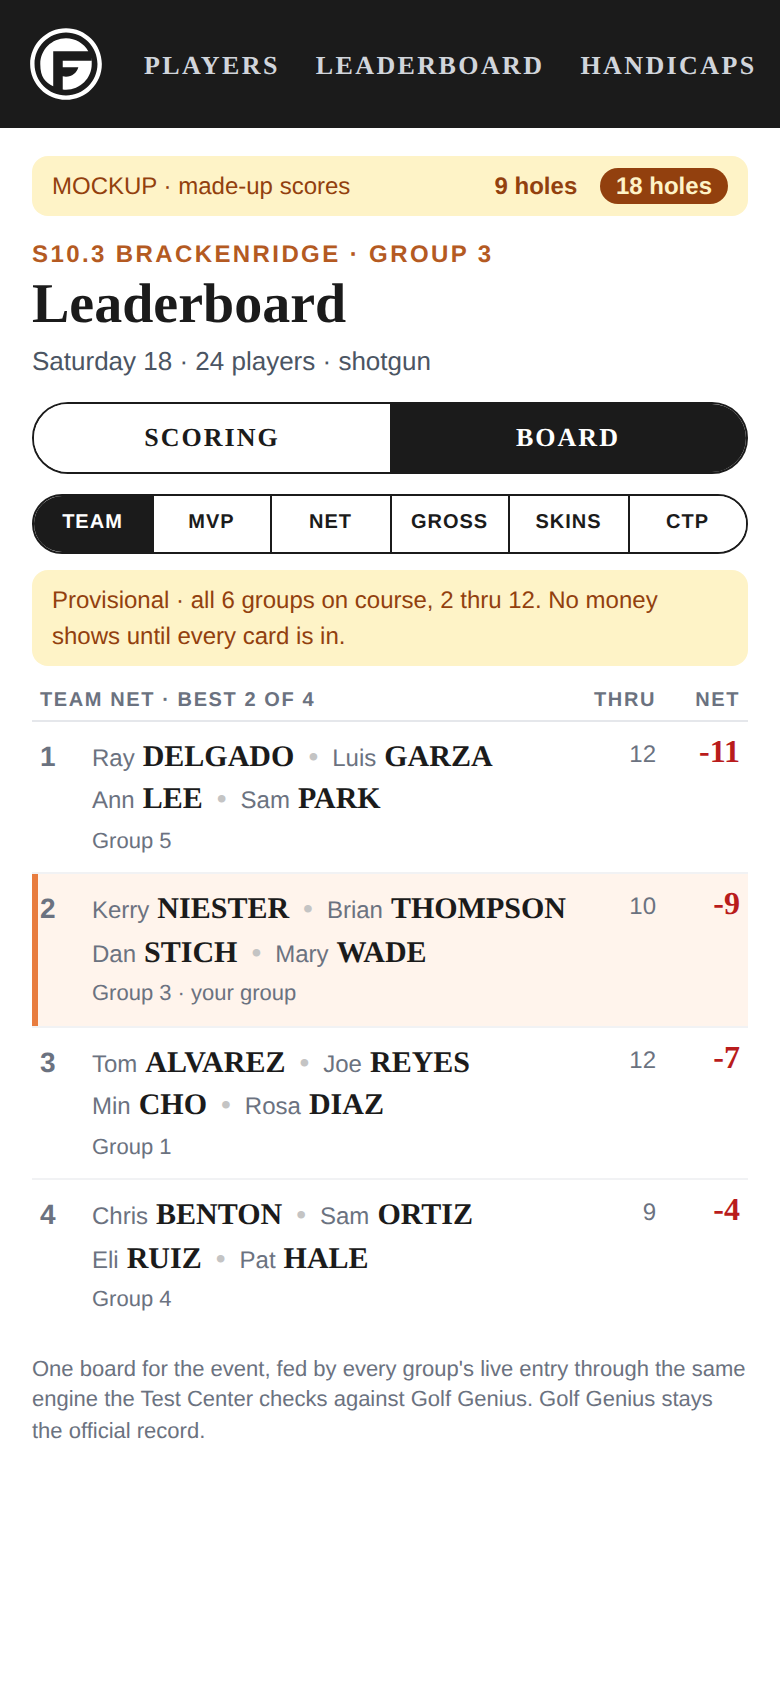
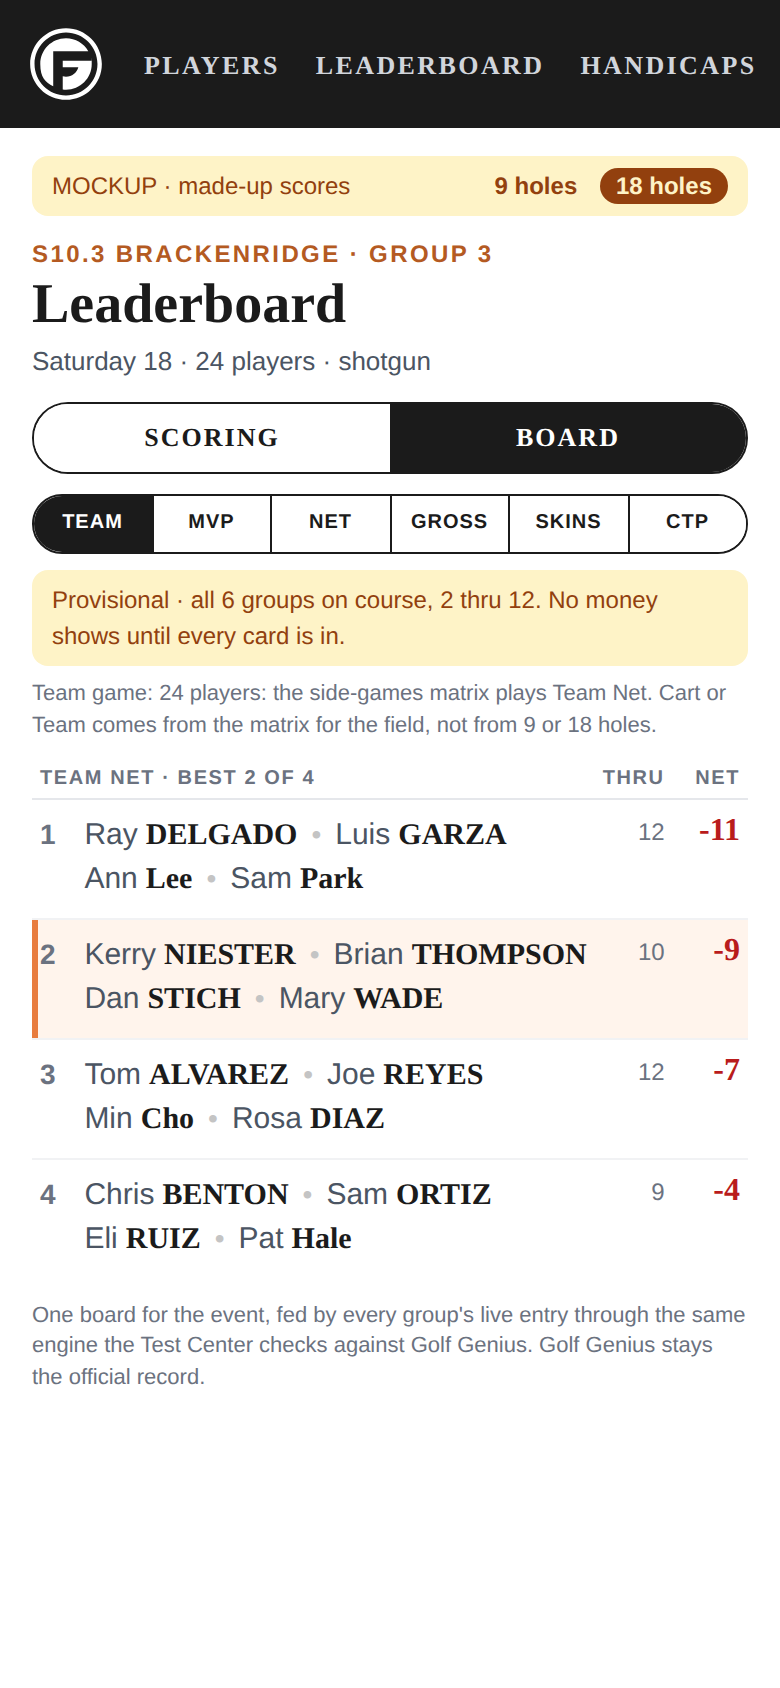
Leaderboard mockup: same-size names, surname case by membership, matrix note
Claude-Session: https://claude.ai/code/session_01PeGTnLppc6bpJPrSmUWsVP

diff --git a/transaction-tracker/templates/leaderboard_mockup.html b/transaction-tracker/templates/leaderboard_mockup.html
@@ -48,8 +48,9 @@
         .lb tr.me td { background: #FFF4EC; }
         .lb tr.me td.pos { box-shadow: inset 3px 0 0 #E87C3E; }
         .nm { display: inline-flex; align-items: baseline; gap: 4px; }
-        .nm em { font-style: normal; font-size: 12px; color: #6B7280; }
-        .nm b { font: 700 15px/1.3 Bitter, Georgia, serif; text-transform: uppercase; }
+        /* Kerry 2026-09-26: first name the same size as the last. */
+        .nm em { font-style: normal; font-size: 15px; color: #4B5563; }
+        .nm b { font: 700 15px/1.3 Bitter, Georgia, serif; }
         .cart { display: flex; align-items: baseline; gap: 7px; white-space: nowrap; }
         .cart .sep { color: #C4C4C4; }
         .meta { font-size: 11px; color: #6B7280; margin-top: 2px; }
@@ -94,12 +95,16 @@
         const A = "#2F5D74", B = "#C1673F";
         const TEE = {Blue: "#1D4ED8", White: "#1B1B1B", Gold: "#B8860B", Red: "#B91C1C"};
         const RING = {White: 1, Red: 1};
-        const P = (f, l) => `<span class="nm"><em>${f}</em><b>${l}</b></span>`;
+        // Surname case follows the Tracker's rule (events.md "Surname Uppercase
+        // for Elevated Roles"): MEMBER / MEMBER+ / MANAGER / OWNER in CAPS,
+        // everyone else (guest, 1st timer, non-member) in proper case.
+        const NONMEMBER = new Set(["Lee", "Cho", "Hale", "Park", "Kim"]);
+        const P = (f, l) => `<span class="nm"><em>${f}</em><b style="text-transform:${NONMEMBER.has(l) ? "none" : "uppercase"}">${l}</b></span>`;
         const cart = (pair) => `<div class="cart">${P(...pair[0])}<span class="sep">•</span>${P(...pair[1])}</div>`;
         const tp = (n) => n === 0 ? "E" : (n > 0 ? "+" + n : "" + n);
         const EV = {
           "9": {
-            name: "s9.29 Canyon Springs", group: 1, sub: "Tuesday nine · 16 players · holes 1–9",
+            name: "s9.29 Canyon Springs", group: 1, sub: "Tuesday nine · 16 players · holes 1–9", matrix: "16 players: the side-games matrix plays Cart Net",
             team: {key: "CART", title: "Cart Net · best ball of 2, 85%", rows: [
               {pos: 1, carts: [[["Dan", "Stich"], ["Mary", "Wade"]]], meta: "Group 1 · your group", thru: 6, net: -6, me: 1},
               {pos: 2, carts: [[["Ray", "Delgado"], ["Joe", "Reyes"]]], meta: "Group 3", thru: 7, net: -5},
@@ -117,7 +122,7 @@
               {a: ["Brian", "Thompson"], b: ["Mary", "Wade"], lead: null, txt: "AS", sub: "thru 6", h: [2, 1, 0, 1, 2, 0, null, null, null]}],
             note: "3 of 4 groups thru 5 or more"},
           "18": {
-            name: "s10.3 Brackenridge", group: 3, sub: "Saturday 18 · 24 players · shotgun",
+            name: "s10.3 Brackenridge", group: 3, sub: "Saturday 18 · 24 players · shotgun", matrix: "24 players: the side-games matrix plays Team Net",
             team: {key: "TEAM", title: "Team Net · best 2 of 4", rows: [
               {pos: 1, carts: [[["Ray", "Delgado"], ["Luis", "Garza"]], [["Ann", "Lee"], ["Sam", "Park"]]], meta: "Group 5", thru: 12, net: -11},
               {pos: 2, carts: [[["Kerry", "Niester"], ["Brian", "Thompson"]], [["Dan", "Stich"], ["Mary", "Wade"]]], meta: "Group 3 · your group", thru: 10, net: -9, me: 1},
@@ -140,7 +145,7 @@
         function playerRows(ev, col) {
             const rows = ev.players.slice().sort((x, y) => (col === "gross" ? x[4] - y[4] : x[6] - y[6]));
             return rows.map((r, i) => `<tr class="${r[3] === ev.group ? "me" : ""}"><td class="pos">${i + 1}</td>
-                <td class="who"><span class="tee ${RING[r[2]] ? "ring" : ""}" style="background:${TEE[r[2]]};color:${TEE[r[2]]}"></span>${P(r[0], r[1])}<div class="meta">Group ${r[3]}${r[3] === ev.group ? " · your group" : ""}</div></td>
+                <td class="who"><span class="tee ${RING[r[2]] ? "ring" : ""}" style="background:${TEE[r[2]]};color:${TEE[r[2]]}"></span>${P(r[0], r[1])}</td>
                 <td class="sm">${r[5]}</td><td class="tp ${(col === "gross" ? 0 : r[6]) < 0 ? "u" : ""}">${col === "gross" ? r[4] : tp(r[6])}</td></tr>`).join("");
         }
         function mcard(m) {
@@ -154,12 +159,12 @@
         }
         function body(ev, g) {
             if (g === ev.team.key) return `<table><tr><th class="l" colspan="2">${ev.team.title}</th><th>Thru</th><th>Net</th></tr>${ev.team.rows.map((r) =>
-                `<tr class="${r.me ? "me" : ""}"><td class="pos">${r.pos}</td><td class="who">${r.carts.map(cart).join("")}<div class="meta">${r.meta}</div></td>
+                `<tr class="${r.me ? "me" : ""}"><td class="pos">${r.pos}</td><td class="who">${r.carts.map(cart).join("")}</td>
                  <td class="sm">${r.thru}</td><td class="tp ${r.net < 0 ? "u" : ""}">${tp(r.net)}</td></tr>`).join("")}</table>`;
             if (g === "NET") return `<table><tr><th class="l" colspan="2">Individual Net</th><th>Thru</th><th>Net</th></tr>${playerRows(ev, "net")}</table>`;
             if (g === "GROSS") return `<table><tr><th class="l" colspan="2">Individual Gross</th><th>Thru</th><th>Gross</th></tr>${playerRows(ev, "gross")}</table>`;
             if (g === "MVP") return `<table><tr><th class="l" colspan="2">MVP · points today</th><th>Thru</th><th>Pts</th></tr>${ev.players.slice().sort((x, y) => x[6] - y[6]).map((r, i) =>
-                `<tr class="${r[3] === ev.group ? "me" : ""}"><td class="pos">${i + 1}</td><td class="who">${P(r[0], r[1])}<div class="meta">Group ${r[3]}</div></td><td class="sm">${r[5]}</td><td class="tp">${Math.max(0, 12 - 2 * i)}</td></tr>`).join("")}</table>`;
+                `<tr class="${r[3] === ev.group ? "me" : ""}"><td class="pos">${i + 1}</td><td class="who">${P(r[0], r[1])}</td><td class="sm">${r[5]}</td><td class="tp">${Math.max(0, 12 - 2 * i)}</td></tr>`).join("")}</table>`;
             if (g === "SKINS") return `<div class="lbl"><span>Skins · ${ev.skinsTitle}</span><span>${ev.skinsNote}</span></div>
                 <div class="skins" style="grid-template-columns:repeat(9,1fr)">${ev.skins.map((s, i) => `<div class="sk ${s.w ? "won" : s.c ? "carry" : ""}">${i + 1}<b>${s.w || (s.c ? "c/o" : "–")}</b></div>`).join("")}</div>`;
             if (g === "CTP") return `<table><tr><th class="l" colspan="2">Closest to the pin</th><th></th><th>Distance</th></tr>${ev.ctp.map((c) =>
@@ -179,6 +184,7 @@
                 <div class="seg"><button type="button">SCORING</button><button type="button" class="on">BOARD</button></div>
                 <div class="seg games">${gs.map((x) => `<button type="button" class="${x === game ? "on" : ""}" data-g="${x}">${x}</button>`).join("")}</div>
                 <div class="prov">Provisional · ${ev.note}. No money shows until every card is in.</div>
+                <div class="meta" style="margin:-2px 0 8px">Team game: ${ev.matrix}. Cart or Team comes from the matrix for the field, not from 9 or 18 holes.</div>
                 ${body(ev, game)}
                 <div class="note">One board for the event, fed by every group's live entry through the same engine the Test Center checks against Golf Genius. Golf Genius stays the official record.</div>`;
         }

diff --git a/transaction-tracker/static/js/version.js b/transaction-tracker/static/js/version.js
@@ -1,5 +1,13 @@
-window.TGF_VERSION = "2.502.1";
+window.TGF_VERSION = "2.502.2";
 window.TGF_CHANGELOG = [
+  {
+    version: "2.502.2",
+    date: "2026-09-26",
+    title: "Leaderboard mockup: name sizes, surname case, matrix note",
+    changes: [
+      "Kerry, 2026-09-26: 'Make first name text same size. Follow case rules for last names based on Membership. Remove group number line. That's unimportant. Remember Cart v Team is based on the side game matrix, not 9 or 18.' First and last names are the same size now. Surnames follow the elevated-role rule: CAPS for members, proper case for guests. The group lines are gone. The board says the team game comes from the side-games matrix for the field size, not from 9 or 18 holes."
+    ]
+  },
   {
     version: "2.502.1",
     date: "2026-09-26",
